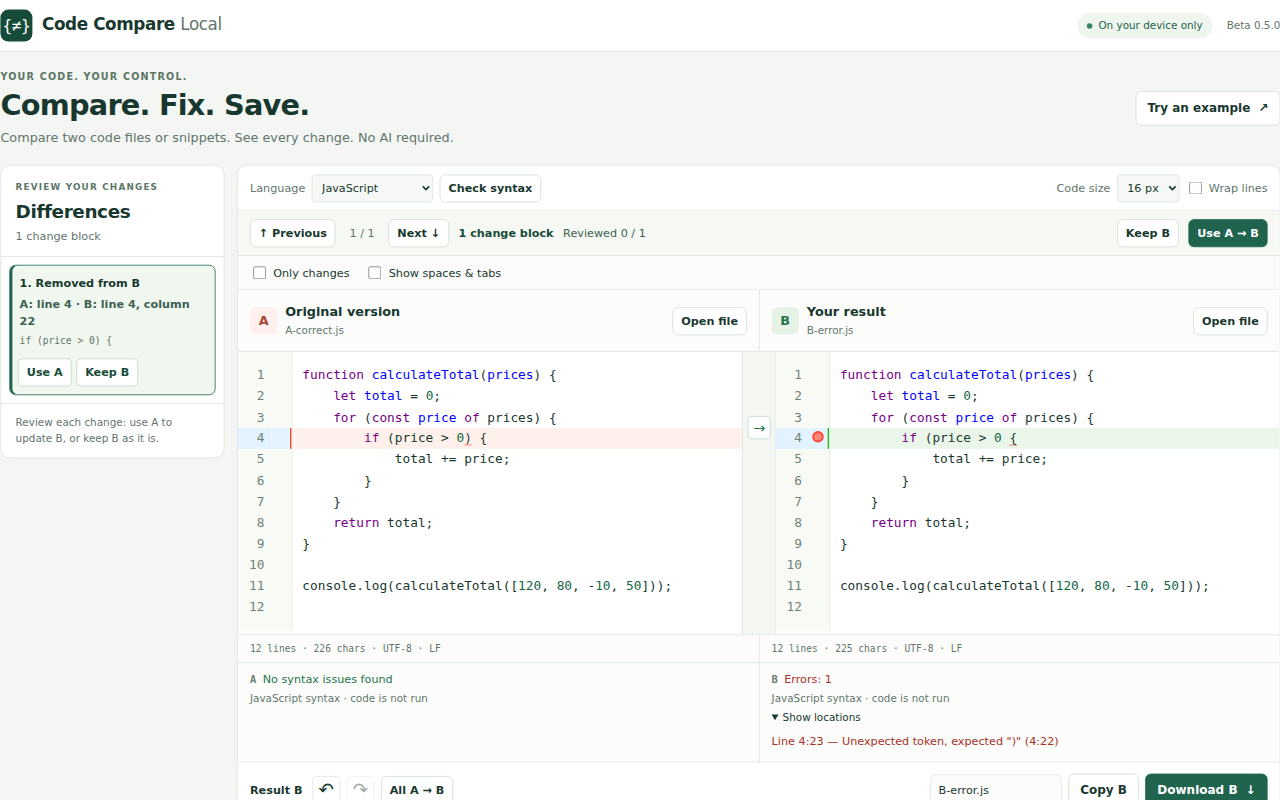
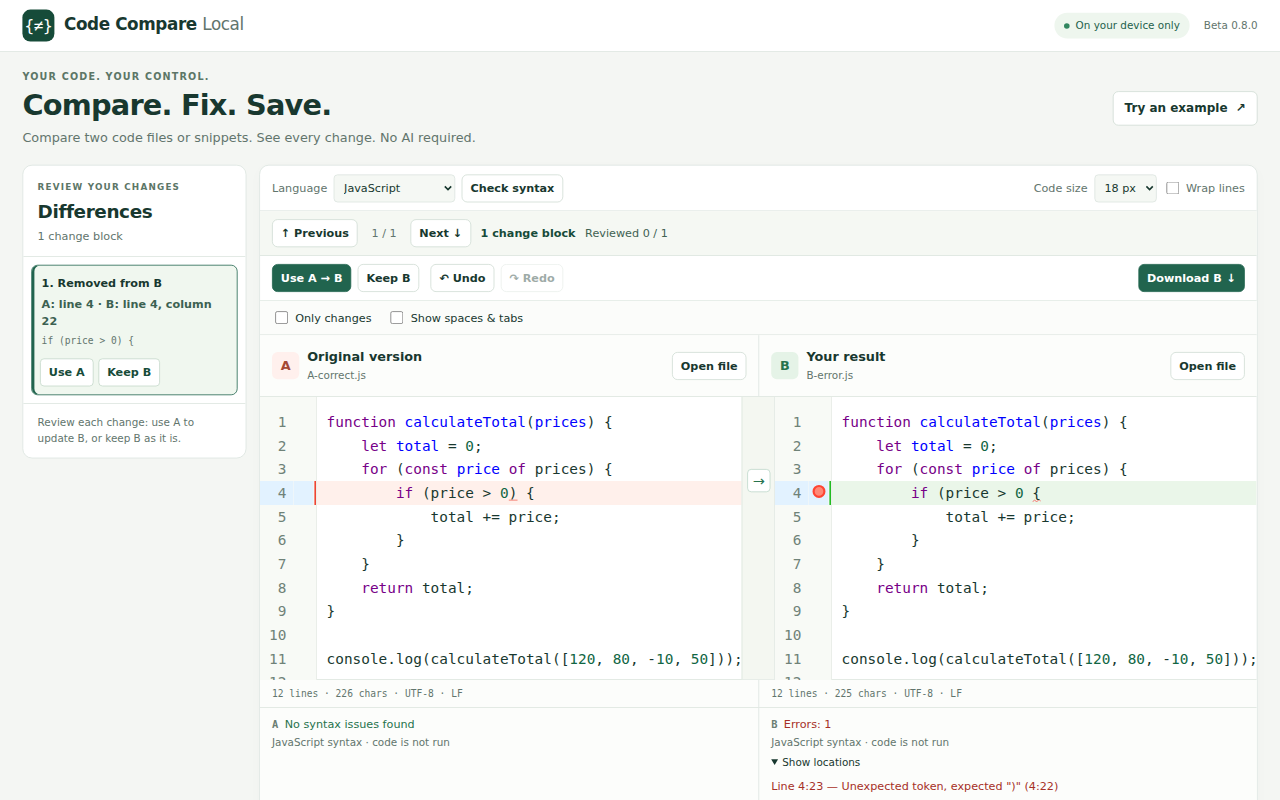
Prepare Chrome Web Store materials for accepted 0.8.0 beta

diff --git a/scripts/package.py b/scripts/package.py
@@ -1,5 +1,6 @@
 """Create deterministic installation and source ZIPs from the current build."""
 import json
+import hashlib
 from pathlib import Path
 from zipfile import ZIP_DEFLATED, ZipFile, ZipInfo
 
@@ -37,3 +38,30 @@ archive(f"code-compare-local-{version}-source.zip", source, "code-compare-local/
 
 archive(f"code-compare-local-{version}-test-files.zip",
         [f for f in (ROOT / "examples").rglob("*") if f.is_file()])
+
+# Keep the store upload and the supporting materials in one delivery archive.
+# The outer kit itself is not an installable extension.
+store_files = {
+    f"code-compare-local-{version}-beta.zip": (out / f"code-compare-local-{version}-beta.zip").read_bytes(),
+    "icon128.png": (ROOT / "icons/icon128.png").read_bytes(),
+}
+for name in ("LISTING-EN.md", "SUBMISSION-RU.md", "screenshot-1280x800.png",
+             "screenshot-fixed-1280x800.png", "promo-440x280.png"):
+    store_files[name] = (ROOT / "store" / name).read_bytes()
+listing = store_files["LISTING-EN.md"].decode("utf-8")
+description = listing.split("## Full description\n", 1)[1].split("\n## ", 1)[0].strip()
+store_files["FULL-DESCRIPTION-EN.txt"] = (description + "\n").encode("utf-8")
+store_files["SHA256SUMS.txt"] = "".join(
+    f"{hashlib.sha256(data).hexdigest()}  {name}\n"
+    for name, data in sorted(store_files.items())
+).encode("utf-8")
+kit = out / f"code-compare-local-{version}-store-kit.zip"
+with ZipFile(kit, "w", compression=ZIP_DEFLATED) as zipped:
+    for name, data in sorted(store_files.items()):
+        entry = ZipInfo(name, (2026, 1, 1, 0, 0, 0))
+        entry.compress_type = ZIP_DEFLATED
+        entry.external_attr = 0o100644 << 16
+        zipped.writestr(entry, data)
+with ZipFile(kit) as zipped:
+    assert zipped.testzip() is None
+print(kit)

diff --git a/store/SUBMISSION-RU.md b/store/SUBMISSION-RU.md
@@ -1,19 +1,25 @@
-# Code Compare Local 0.5.0 — комплект для Chrome Web Store
+# Code Compare Local 0.8.0 — комплект для Chrome Web Store
 
-Подготовлено 19 октября 2026. Это инструкция для загрузки; карточка магазина
-ещё не создана и расширение не отправлено на модерацию.
+Подготовлено 20 октября 2026 для принятой версии 0.8.0, тег `v0.8.0`.
+Перенос изменений, Undo/Redo и сохранение проверены пользователем. CI после
+слияния PR #6 прошёл. Подготовка комплекта не означает отправку на модерацию
+или публикацию расширения.
 
 ## Файлы
 
 Запустить `npm run package` из корня проекта.
+Комплект `dist/code-compare-local-0.8.0-store-kit.zip` содержит установочный
+ZIP, изображения и тексты. Сначала распакуйте комплект; в Developer Dashboard
+загружайте только вложенный `code-compare-local-0.8.0-beta.zip`.
 
-| Поле / действие | Файл |
+| Поле / действие | Файл в распакованном комплекте |
 | --- | --- |
-| Загрузка расширения | `dist/code-compare-local-0.5.0-beta.zip` |
-| Скриншот 1280 × 800 | `store/screenshot-1280x800.png` |
-| Промо 440 × 280 | `store/promo-440x280.png` |
-| Иконка 128 × 128 | `icons/icon128.png` |
-| Полное описание на английском | `store/LISTING-EN.md`, раздел Full description |
+| Загрузка расширения | `code-compare-local-0.8.0-beta.zip` |
+| Скриншот: найденная ошибка | `screenshot-1280x800.png` |
+| Скриншот: после исправления | `screenshot-fixed-1280x800.png` |
+| Промо 440 × 280 | `promo-440x280.png` |
+| Иконка 128 × 128 | `icon128.png` |
+| Полное описание на английском | `FULL-DESCRIPTION-EN.txt` |
 
 В магазин загружается beta ZIP с `manifest.json` в корне. Source ZIP содержит
 исходники и документацию и не предназначен для этого поля.
@@ -70,13 +76,22 @@ analytics, advertising, telemetry, or remote services.
 No account, login, credentials, payment, or external service is required.
 
 1. Install the extension and click its toolbar icon to open the editor.
-2. Click “Try an example” to load two synthetic JavaScript versions.
-3. Select an entry in “Differences” to jump to the changed lines.
-4. Click “Keep B” to retain a change, or “Use A” to replace it with version A.
-5. Toggle “Only changes” and “Show spaces & tabs”.
-6. Edit B, click “Check syntax”, and use a reported location to navigate.
+2. Click “Try an example” to load two valid synthetic JavaScript versions.
+3. Select an entry in “Differences” to jump to the changed lines. Click
+   “Keep B” to mark that difference reviewed without changing the code.
+4. Select another difference and click “Use A → B” to copy that block to B.
+   Click “Undo”, then “Redo”, and confirm the change is removed and restored.
+   These toolbar buttons act on B; Ctrl/Cmd+Z acts on the focused editor.
+5. Toggle “Only changes” and “Show spaces & tabs”, then turn them off.
+6. In B, paste a new line containing `const broken = ;`. Click “Check syntax”.
+   Open “Show locations” under B and click the reported error to jump to it.
+   Click “Undo” to remove the added line; the syntax check runs again.
 7. Click “Download B”, then reopen the saved file with B's “Open file” button.
+   The text and difference blocks should match the result before downloading.
 
+“Keep B” is a review mark, not an edit; the editor's Undo does not remove that
+mark. Manual text edits restart review progress. No external test files are
+needed for these steps.
 The extension does not execute source code. Python validation is preliminary;
 TypeScript type checking and YAML schema validation are not included.
 
@@ -98,4 +113,6 @@ TypeScript type checking and YAML schema validation are not included.
 - https://developer.chrome.com/docs/webstore/images
 - https://developer.chrome.com/docs/webstore/cws-dashboard-distribution
 
-Поля и правила сверены 19 октября 2026. Решение о публикации принимает магазин.
+Размеры изображений, требования к beta-обозначению, режим Unlisted и поля
+Privacy practices сверены с официальными страницами 20 октября 2026.
+Решение о публикации принимает магазин.

diff --git a/store/LISTING-EN.md b/store/LISTING-EN.md
@@ -1,7 +1,8 @@
-# Store listing draft · Code Compare Local 0.5.0
+# Store listing draft · Code Compare Local 0.8.0
 
-Draft for a desktop Chromium beta. This document does not indicate that the
-extension has been submitted, approved, or published.
+Prepared on 20 October 2026 for the accepted 0.8.0 desktop Chromium beta.
+This document does not indicate that the extension has been submitted, approved,
+or published. Copy only the Full description section into that store field.
 
 ## Name
 
@@ -15,21 +16,25 @@ Compare and edit code locally. Check syntax, copy changes, and save. No AI, acco
 
 THIS EXTENSION IS FOR BETA TESTING.
 
+Free to use. All included features are available without payment.
+
 Compare two versions of code and build the result you want.
 
 Open or paste your reference in A and the updated version in B. Review the
 highlighted differences, transfer an individual block from A to B, or edit
 either side directly. Download B when you are done.
 
-Code Compare Local works locally in your browser. No account, API key, LLM,
+Code Compare Local works offline in your browser. No account, API key, AI,
 or server is needed.
 
 WHAT YOU CAN DO
 
 - Compare and edit two code files side by side.
 - Move individual changes from A to B or copy the whole A document.
-- Undo and redo changes.
-- Review each difference with Use A or Keep B and track progress.
+- Undo and redo edits and block transfers while you work.
+- See consistent difference blocks for the same code, whether you open files
+  directly, edit them, or undo and redo your changes.
+- Review each difference with Use A or Keep B and track your session progress.
 - Collapse unchanged sections and reveal spaces and tabs without modifying code.
 - See a difference list with A/B line numbers and jump to any changed block.
 - Choose a readable code size (14–20 px) and turn line wrapping on or off.
@@ -57,14 +62,18 @@ the editor; session recovery is not included.
 
 BETA LIMITS
 
-Open UTF-8 text files up to 512 KiB, 200,000 UTF-16 code units, and 4,000 lines
-per side. This beta compares two text documents, not entire repositories. It
+Open UTF-8 text files up to 512 KiB and 4,000 lines per side. There is also a
+200,000 UTF-16 code-unit limit per side. Large differences may be grouped
+into broader blocks. This beta compares two text documents, not entire repositories. It
 does not access ChatGPT, Claude, or Gemini conversations automatically; paste
 or load the code you want to compare.
 
-## Screenshot
+## Screenshots
 
-The prepared screenshot shows the actual English beta with the supplied JavaScript files, highlighted differences, the A → B transfer control, a syntax message, and the Download B button.
+Use a capture of the actual English 0.8.0 interface with synthetic JavaScript
+files. Keep highlighted differences, line numbers, Use A / Keep B, Undo / Redo,
+and Download B visible. Screenshots must match the uploaded package; do not
+include user files or private code.
 
 ## Publication checklist
 
@@ -78,10 +87,12 @@ The prepared screenshot shows the actual English beta with the supplied JavaScri
 ## Prepared assets
 
 - `screenshot-1280x800.png`: actual packaged interface with the supplied JavaScript example.
+- `screenshot-fixed-1280x800.png`: the same example after Use A, with matching versions, no reported syntax issues and Undo available.
 - `promo-440x280.png`: promotional tile.
 - `../icons/icon128.png`: extension icon.
 
-Image dimensions were checked against the [official Chrome Web Store image guide](https://developer.chrome.com/docs/webstore/images) on 18 October 2026.
+Image specifications: [official Chrome Web Store image guide](https://developer.chrome.com/docs/webstore/images).
+See the submission worksheet for the current preparation and verification status.
 
 ## Submission worksheet
 

diff --git a/VERIFICATION.md b/VERIFICATION.md
@@ -14,12 +14,18 @@
 
 ## Acceptance and remote gate
 
-Version 0.7.0 was accepted by the user and tagged `v0.7.0` on main. This 0.8.0
-pilot still needs the user's own-file acceptance. The GitHub `Beta checks`
-workflow requires `REQUIRE_EXTENSION=1`, so it cannot silently fall back to a
-local page. Consult the pilot pull request checks for the exact installed-
-extension commit/result. This document records local results before upload.
-Store materials remain the prepared 0.5.0 set; no store submission is claimed.
+Version 0.8.0 was accepted by the user on 20 October 2026 after transfers,
+Undo/Redo and Download B. The submitted A/B outputs matched byte for byte and
+both parsed as Python. These files were checked locally and were not committed.
+PR #6 merged at `dccd0c25ed0cd11514e6fb55e76470e02e3bbabb`; the user pushed
+`v0.8.0` at that commit.
+
+Installed-extension checks passed on the PR head and on main:
+https://github.com/donjonson-hash/code-compare-local/actions/runs/39408116810
+The workflow requires `REQUIRE_EXTENSION=1`, so it cannot silently fall back to
+a local page. Store assets now show 0.8.0 with synthetic JavaScript files only.
+The store preparation changes documentation and asset generation, not runtime
+code, icons, dependencies, permissions or version. No store submission is claimed.
 
 ## Scope and cost
 

diff --git a/README-RU.md b/README-RU.md
@@ -19,8 +19,9 @@
 точные байты и прогресс просмотра; после отмены создаётся новая правка.
 
 Описание операций и контракта: [DETERMINISM.md](DETERMINISM.md).
-Это отдельный пилот разработки. Материалы в `store/` подготовлены для
-проверенной версии 0.5.0 (коммит `7de941c`).
+Версия 0.8.0 принята и закреплена тегом `v0.8.0`. В `store/` находятся
+английское описание, скриншоты и инструкция для загрузки бесплатной беты
+в Chrome Web Store. Комплект подготовлен; отправки на модерацию ещё не было.
 
 
 Отдельное расширение для локального сравнения кода. Без LLM, платного API,

diff --git a/README.md b/README.md
@@ -21,8 +21,9 @@ raw bytes and review progress; applying again after Undo creates a fresh proposa
 
 See [DETERMINISM.md](DETERMINISM.md) for the operation map, schema, boundaries,
 and acceptance checks. No API, account, AI call or persistent storage is added.
-This is a development pilot; `store/` retains the prepared 0.5.0 listing/assets.
-The previously tested 0.5.0 store candidate is commit `7de941c`.
+Version 0.8.0 was accepted and tagged `v0.8.0`. The `store/` directory contains
+its English listing, screenshots and Russian submission worksheet. The store
+kit is prepared for free beta testing; it has not been submitted or published.
 
 
 Compare two versions of code, edit them side by side, move changes from A to B,

diff --git a/DETERMINISM.md b/DETERMINISM.md
@@ -1,10 +1,10 @@
 # Deterministic operations — comparison policy and transfers
 
-Version 0.7.0 is the accepted baseline (tag `v0.7.0`). The 0.8.0 pilot adds
+Version 0.8.0 is the accepted baseline (tag `v0.8.0`). It adds
 canonical full comparison after every document-changing transaction. It keeps
 versioned transfers, raw-byte history, and the existing editor instances.
-It does not introduce a plugin API or LLM integration. Store materials remain
-the prepared 0.5.0 set.
+It does not introduce a plugin API or LLM integration. Store materials in
+`store/` now describe 0.8.0; no store submission or approval is claimed.
 
 ## Operation map
 
